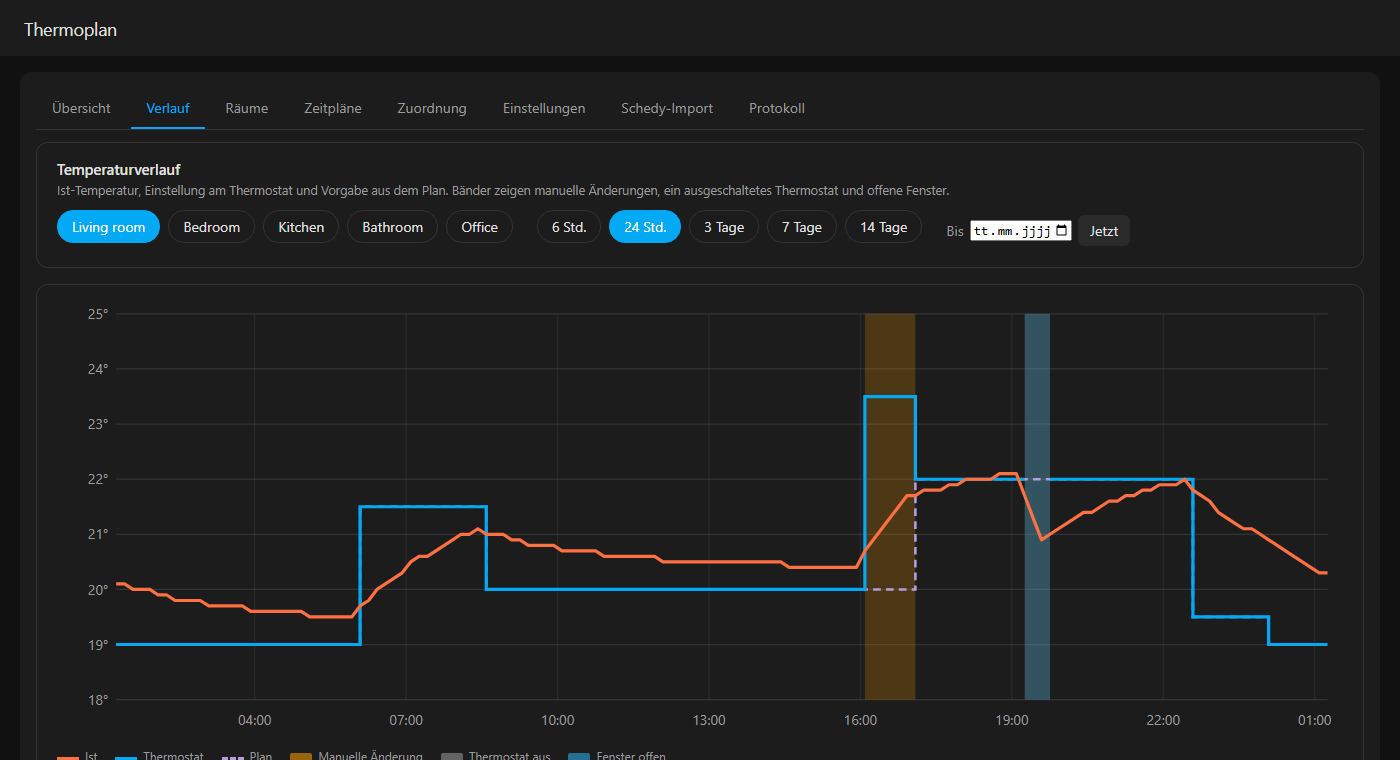
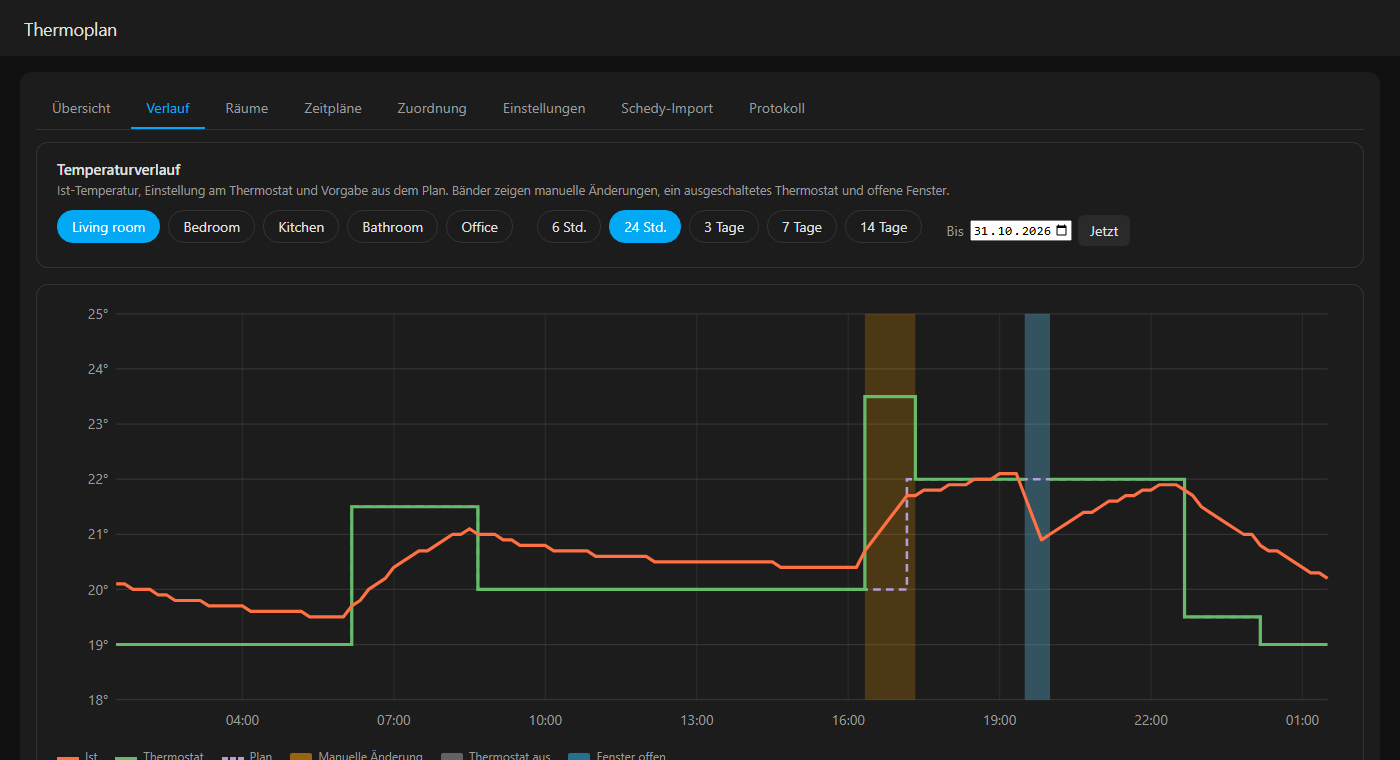
History: thermostat line in green so it differs from the window band

diff --git a/custom_components/thermoplan/frontend/thermoplan-history.js b/custom_components/thermoplan/frontend/thermoplan-history.js
@@ -172,7 +172,7 @@ function chart(data, room, sensorId, t0, t1, hass, T) {
   };
   const line = (series) => series.map((p, i) => `${i ? "L" : "M"}${X(p.t).toFixed(1)} ${Y(p.v).toFixed(1)}`).join("") + (series.length ? `L${X(t1).toFixed(1)} ${Y(series[series.length - 1].v).toFixed(1)}` : "");
   root.append(svg("path", { d: step(plan), fill: "none", stroke: "#b39ddb", "stroke-width": 2, "stroke-dasharray": "6 4" }));
-  root.append(svg("path", { d: step(setp), fill: "none", stroke: "var(--primary-color)", "stroke-width": 2.5 }));
+  root.append(svg("path", { d: step(setp), fill: "none", stroke: "#66bb6a", "stroke-width": 2.5 }));
   root.append(svg("path", { d: line(cur), fill: "none", stroke: "#ff7043", "stroke-width": 2.5, "stroke-linejoin": "round" }));
 
   // hover crosshair + tooltip
@@ -191,7 +191,7 @@ function chart(data, room, sensorId, t0, t1, hass, T) {
     tip.replaceChildren(
       h("div", { style: "font-weight:500" }, new Date(t).toLocaleString(hass.language, { weekday: "short", day: "2-digit", month: "2-digit", hour: "2-digit", minute: "2-digit" })),
       h("div", { style: "color:#ff7043" }, `${T("leg_current")}: ${fmtV(c?.v)}`),
-      h("div", { style: "color:var(--primary-color)" }, `${T("leg_set")}: ${cl?.state === "off" ? "off" : fmtV(s?.v)}`),
+      h("div", { style: "color:#66bb6a" }, `${T("leg_set")}: ${cl?.state === "off" ? "off" : fmtV(s?.v)}`),
       h("div", { style: "color:#b39ddb" }, `${T("leg_plan")}: ${p?.v === null || p === null ? "off" : fmtV(p.v)}`),
       reason ? h("div", {}, `${T("tip_status")}: ${T("r_" + reason)}`) : null);
     tip.style.display = "block";
@@ -204,7 +204,7 @@ function chart(data, room, sensorId, t0, t1, hass, T) {
 
   const legend = h("div", { class: "hist-legend" },
     h("span", {}, h("i", { style: "border-color:#ff7043" }), T("leg_current")),
-    h("span", {}, h("i", { style: "border-color:var(--primary-color)" }), T("leg_set")),
+    h("span", {}, h("i", { style: "border-color:#66bb6a" }), T("leg_set")),
     h("span", {}, h("i", { style: "border-color:#b39ddb;border-top-style:dashed" }), T("leg_plan")),
     h("span", {}, h("i", { class: "band", style: "background:#ffa000" }), T("leg_manual")),
     h("span", {}, h("i", { class: "band", style: "background:#9e9e9e" }), T("leg_off")),
